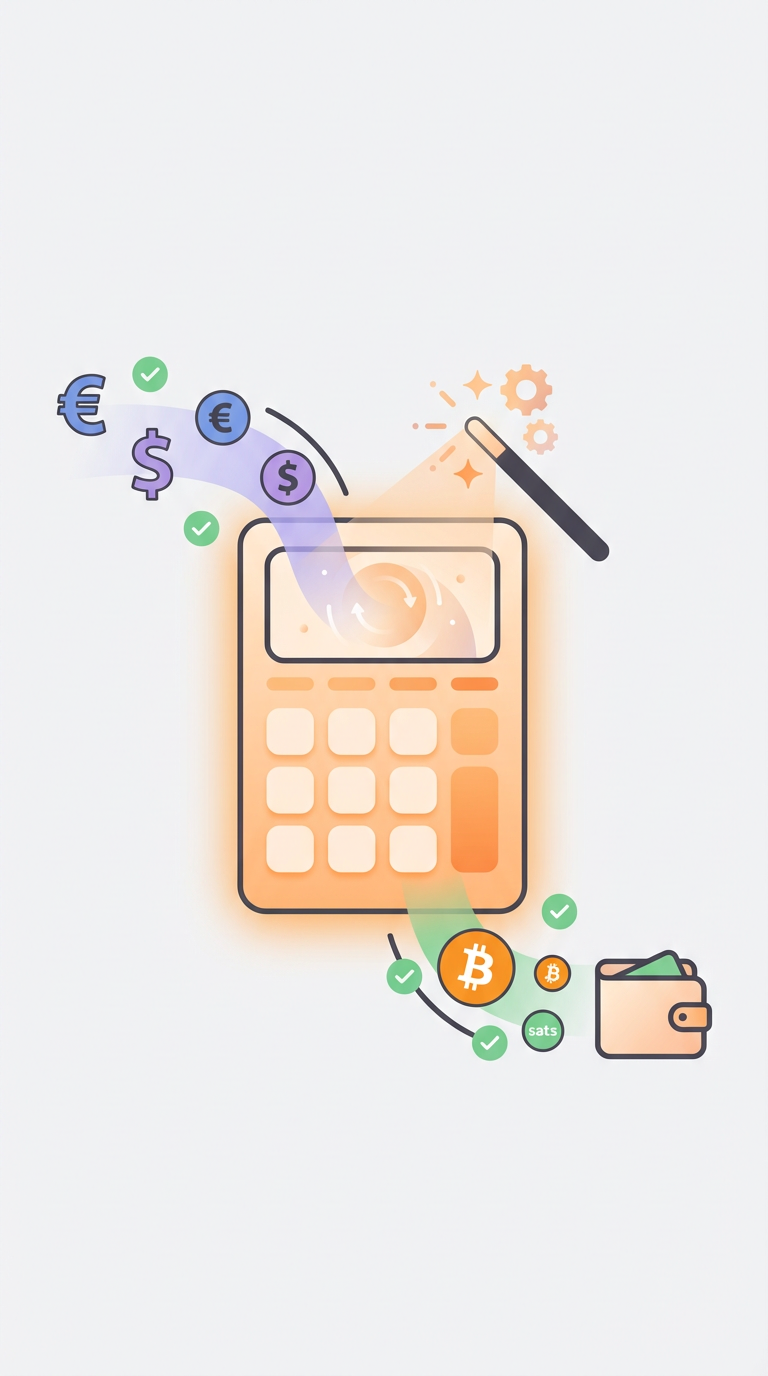
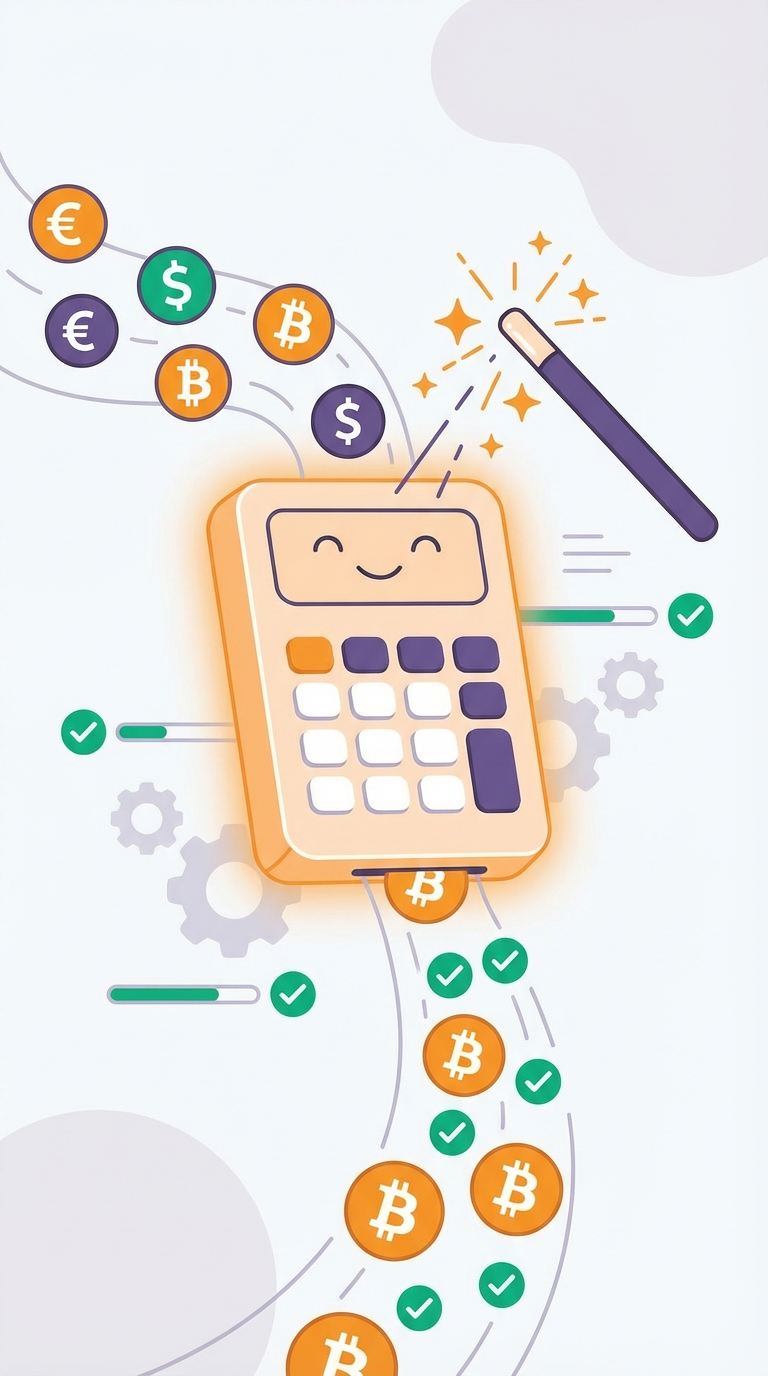
guest welcome flow images update

diff --git a/src/views/PaymentView.vue b/src/views/PaymentView.vue
@@ -267,10 +267,7 @@ export default {
       onboardingService.markTipSeen('PaymentMethodTip');
     };
 
-    const dismissPaymentSuccessCelebration = () => {
-      showPaymentSuccessCelebration.value = false;
-      onboardingService.markFirstReceiptPaid();
-    };
+    // Payment success celebration moved to PaymentConfirmationView
 
     // Computed properties from receiptModel
     const receiptAuthorPubkey = computed(() => receiptModel.value?.receiptModel?.event?.pubkey || '');
@@ -825,8 +822,7 @@ export default {
       showGuestWelcome,
       handleGuestWelcomeComplete,
       showItemSelectionTip,
-      showPaymentMethodTip,
-      showPaymentSuccessCelebration
+      showPaymentMethodTip
     };
   }
 };

diff --git a/src/components/onboarding/GuestWelcomeOnboarding.vue b/src/components/onboarding/GuestWelcomeOnboarding.vue
@@ -18,7 +18,7 @@
         
         <div class="text-center space-y-4 mb-8">
           <h1 class="text-3xl font-bold text-gray-900">
-            🎉 You're Invited!
+            You're Invited!
           </h1>
           <p class="text-lg text-gray-600">
             Someone shared a receipt with you.<br/>Let's split the bill fairly!
@@ -55,7 +55,7 @@
         
         <div class="text-center space-y-4 mb-8">
           <h1 class="text-3xl font-bold text-gray-900">
-            🧮 We Do The Math
+            We Do The Math
           </h1>
           <p class="text-lg text-gray-600">
             No calculating. No conversion rates.<br/>Just select what you had and pay.

diff --git a/docs/image-prompts/guest/01-invited.md b/docs/image-prompts/guest/01-invited.md
@@ -29,32 +29,32 @@
 ## Primary Prompt
 
 ```
-Modern flat illustration, vertical mobile format. A person happily looking at their smartphone showing a receipt invitation notification. The phone screen has a warm orange glow with a receipt icon and invitation symbol. Floating around the phone are friendly icons: fork and knife, checkmark, payment symbols. The person has a pleased, welcoming expression. Warm orange and green color palette, clean minimalist design, soft rounded shapes, professional yet approachable style. No text, high contrast, vector-style artwork. --style flat --ar 2:3
-```
-
----
-
-## Alternative Prompt
-
-```
-Welcoming invitation scene. A smartphone in the center displaying a glowing receipt with an invitation badge. Around it, floating friendly icons: utensils, checkmark, coins. Soft orange and green gradients creating a warm, inviting atmosphere. Modern flat illustration, clean composition, vertical orientation, conveying "you're welcome here" feeling. No text, professional quality. --style flat --ar 2:3
+Modern flat illustration, vertical mobile format, engaging perspective. A friendly person facing the viewer directly, holding up a glowing smartphone toward the camera/viewer as if presenting it to you. The phone screen shows a digital receipt with an invitation badge, radiating warm orange light. The person has both hands presenting the phone forward, with a warm welcoming smile and excited expression, making direct eye contact with the viewer. Around the phone, floating celebratory elements: confetti, sparkles, fork and knife icons, payment symbols, all moving toward the viewer. The composition has depth - the person and phone are in the foreground reaching out, background elements fade slightly. Creates a feeling of "here, this is for you!" or "you're invited to join us!". Warm orange and green color palette, clean minimalist design, soft rounded shapes, generous and inviting atmosphere. No text, high contrast, vector-style artwork. --style flat --ar 2:3
 ```
 
 ---
 
 ## Key Elements
 
-- Smartphone with receipt invitation
-- Warm, welcoming glow (orange)
-- Friendly icons (utensils, checkmark, payment)
-- Happy, welcoming feeling
-- Orange/green color scheme
-- Person with pleased expression (optional)
+- Person facing viewer directly (eye contact)
+- Both hands presenting phone toward viewer
+- Phone held up/forward (offering gesture)
+- Glowing digital receipt on screen
+- Invitation badge radiating orange light
+- Warm, welcoming smile
+- Excited, generous expression
+- Floating elements moving toward viewer
+- Confetti and sparkles (celebration)
+- Fork, knife, payment icons
+- Depth composition (foreground/background)
+- "Here, this is for you!" feeling
+- "You're invited to join!" atmosphere
+- Engaging, direct presentation
+- Orange and green color scheme
+- Soft rounded shapes
+- Generous, inviting, welcoming
+- Professional yet warm and friendly
 
 ---
 
-## Output File
-
-**Location**: `public/onboard/guest/01-invited.png`
-**Format**: PNG with transparency
-**Size**: 800x1200 pixels (2:3 aspect ratio)
+reference image attached

diff --git a/docs/image-prompts/guest/03-quick-private.md b/docs/image-prompts/guest/03-quick-private.md
@@ -29,33 +29,30 @@
 ## Primary Prompt
 
 ```
-Modern flat illustration, vertical mobile format. A lightning bolt icon merged with a privacy shield, with payment symbols (coins, sats) flowing through it securely. The shield has a soft purple glow, the lightning bolt has an orange glow. Subtle encryption symbols or lock icons around the shield. Clean minimalist design, purple and orange color palette, conveying speed, security, and privacy. No text, high contrast, vector-style artwork. --style flat --ar 2:3
-```
-
----
-
-## Alternative Prompt
-
-```
-Speed and privacy illustration. A smartphone with a lightning bolt on the screen, surrounded by a protective shield. Payment symbols flowing from the phone to a recipient icon, all protected by the shield. Purple and orange gradients creating a sense of security and speed. Modern flat design, clean composition, vertical orientation, conveying "fast and private". No text, professional quality. --style flat --ar 2:3
+Modern flat illustration, vertical mobile format. A guest (viewer perspective) and a host standing together inside a protective shield bubble, connected by a secure payment line. The guest is in the foreground (representing the viewer), the host is across from them, both looking confident and secure. Between them, Bitcoin (₿) and ecash/nut symbols flow along the secure connection line, with a lightning bolt showing speed. Outside the shield, other group members are shown faded/subtle in the background (less relevant). Purple and orange color palette with subtle glow from the shield. Clean minimalist design, conveying "direct private payment between you and the host, fast and secure". No text, high contrast, vector-style artwork. --style flat --ar 2:3
 ```
 
 ---
 
 ## Key Elements
 
-- Lightning bolt (speed)
-- Shield (privacy/security)
-- Payment symbols flowing securely
-- Purple/orange glow
-- Encryption/lock symbols (subtle)
-- Fast and private feeling
-- Trustworthy appearance
+- Guest in foreground (viewer perspective)
+- Host across from guest (direct connection)
+- Both inside protective shield bubble
+- Secure payment line connecting them
+- Bitcoin (₿) and ecash/nut symbols flowing
+- Lightning bolt (speed indicator)
+- Other group members faded outside/background
+- Purple glow from shield
+- Orange glow from payment flow
+- Direct one-to-one transaction focus
+- "Just you and the host" feeling
+- Fast and private payment
+- Secure, protected connection
+- Purple and orange color scheme
+- Confident, secure expressions
+- Empowering, in-control feeling
 
 ---
 
-## Output File
-
-**Location**: `public/onboard/guest/03-quick-private.png`
-**Format**: PNG with transparency
-**Size**: 800x1200 pixels (2:3 aspect ratio)
+reference image attached

diff --git a/docs/image-prompts/guest/02-math.md b/docs/image-prompts/guest/02-math.md
@@ -32,30 +32,21 @@
 Modern flat illustration, vertical mobile format. A stylized calculator with a magic wand or sparkle effect, showing automatic calculation. Currency symbols (€, $, ₿) flowing into the calculator and sats (₿) flowing out, with green checkmarks along the path. The calculator has a friendly, helpful appearance with a soft orange glow. Clean minimalist design, orange and green color palette, conveying automation and ease. No text, high contrast, vector-style artwork. --style flat --ar 2:3
 ```
 
----
-
-## Alternative Prompt
-
-```
-Automatic calculation illustration. A smartphone showing a receipt with items, and a floating calculator overlay with sparkle effects. Currency conversion symbols (€ → ₿ → sats) flowing smoothly with green checkmarks at each step. The calculator has gears or automation symbols suggesting "we handle this for you". Modern flat design, orange and green tones, vertical orientation, conveying effortless calculation. No text, professional quality. --style flat --ar 2:3
-```
-
----
-
 ## Key Elements
 
-- Calculator with automation symbols (sparkles, magic wand, or gears)
+- Stylized calculator (friendly appearance)
+- Magic wand or sparkle effects (automation)
+- Currency symbols flowing in (€, $, ₿)
+- Sats (₿) flowing out
+- Green checkmarks along conversion path
+- Soft orange glow from calculator
+- Automation symbols (gears, sparkles)
 - Currency conversion flow (€ → ₿ → sats)
-- Green checkmarks showing automatic steps
-- Sparkle/magic effect (automation)
-- Orange/green color scheme
+- Orange and green color scheme
 - "We handle it for you" feeling
-- Friendly, helpful appearance
+- Effortless, automatic calculation
+- Helpful, friendly appearance
 
 ---
 
-## Output File
-
-**Location**: `public/onboard/guest/02-math.png`
-**Format**: PNG with transparency
-**Size**: 800x1200 pixels (2:3 aspect ratio)
+reference image attached
